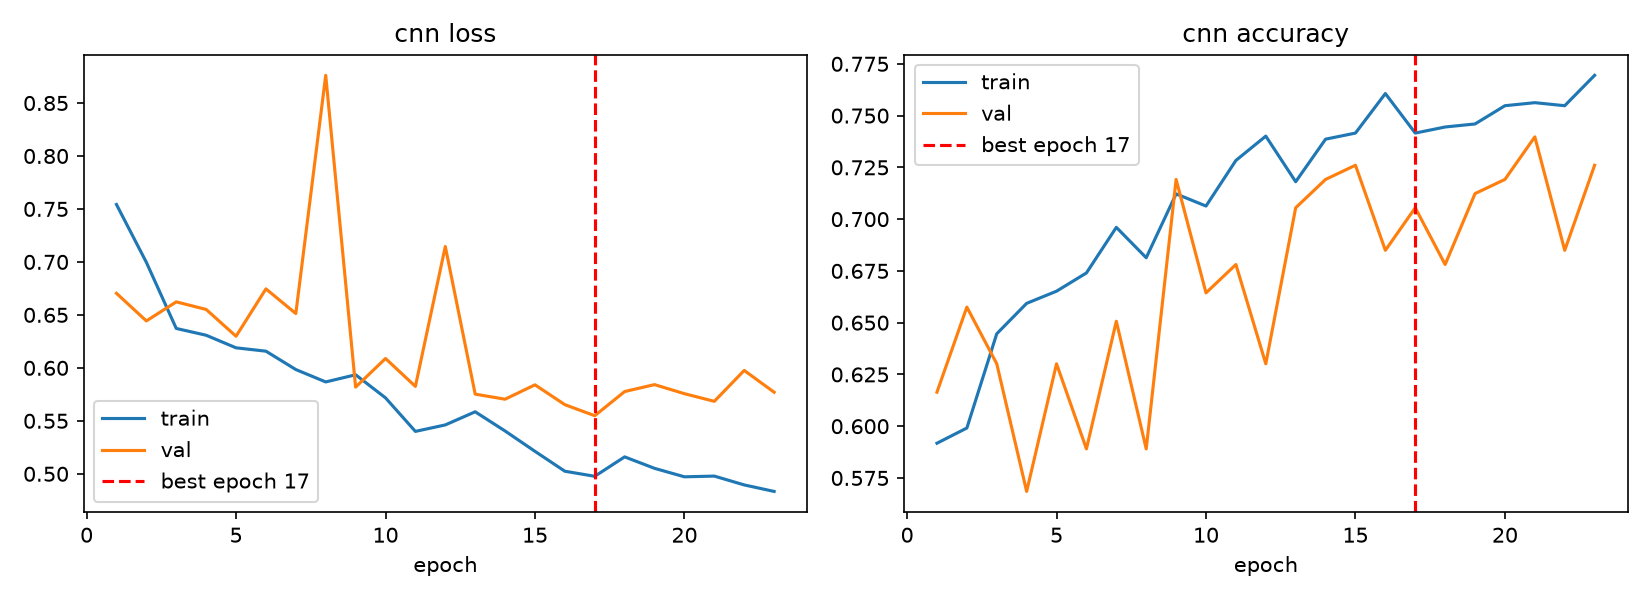
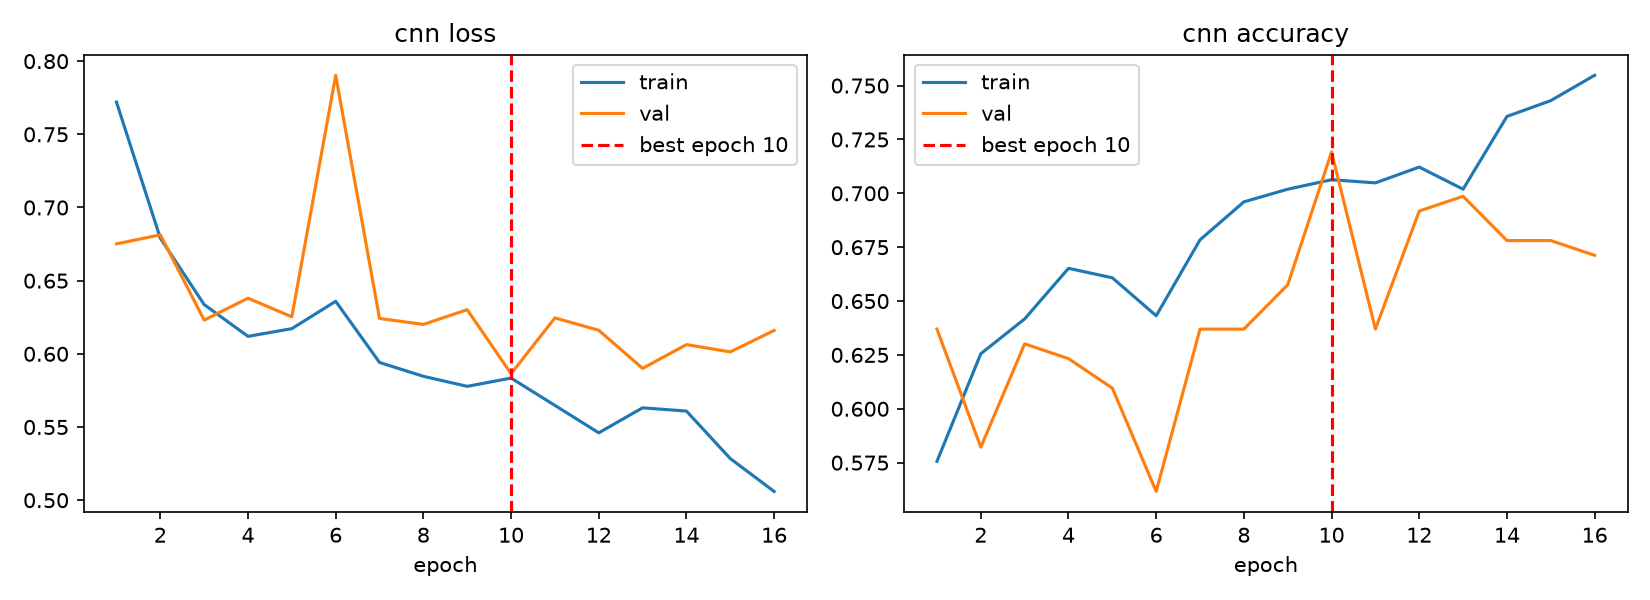
Share preprocessing between training and serving, tidy transfer script

diff --git a/data.py b/data.py
@@ -4,6 +4,8 @@ import matplotlib.pyplot as plt
 import pandas as pd
 import tensorflow as tf
 
+from preprocess import prepare
+
 IMG = 160
 BATCH = 32
 SEED = 42
@@ -16,21 +18,20 @@ augment = tf.keras.Sequential([
 ])
 
 
-def load_image(path, label):
-    img = tf.io.read_file(path)
-    img = tf.io.decode_image(img, channels=3, expand_animations=False)
-    img = tf.image.resize(img, (IMG, IMG))
-    return img, label
+def load_image(path, label, img=IMG):
+    raw = tf.io.read_file(path)
+    return prepare(raw, img), label
 
 
-def make_ds(csv, train=False):
+def make_ds(csv, train=False, img=IMG, augment_on=True):
     df = pd.read_csv(csv)
     ds = tf.data.Dataset.from_tensor_slices((df.path.tolist(), df.label.values.astype("float32")))
-    ds = ds.map(load_image, num_parallel_calls=tf.data.AUTOTUNE)
+    ds = ds.map(lambda p, y: load_image(p, y, img), num_parallel_calls=tf.data.AUTOTUNE)
     ds = ds.cache()
     if train:
         ds = ds.shuffle(len(df), seed=SEED)
-        ds = ds.map(lambda x, y: (augment(x, training=True), y), num_parallel_calls=tf.data.AUTOTUNE)
+        if augment_on:
+            ds = ds.map(lambda x, y: (augment(x, training=True), y), num_parallel_calls=tf.data.AUTOTUNE)
     return ds.batch(BATCH).prefetch(tf.data.AUTOTUNE)
 
 

diff --git a/train_transfer.py b/train_transfer.py
@@ -21,8 +21,8 @@ model = tf.keras.Model(inputs, outputs)
 
 
 def save_trainable(stage):
-    names = [l.name for l in base.layers if l.trainable and l.weights]
-    names += [l.name for l in model.layers if l is not base and l.trainable and l.weights]
+    names = [layer.name for layer in base.layers if layer.trainable and layer.weights]
+    names += [layer.name for layer in model.layers if layer is not base and layer.trainable and layer.weights]
     print(stage, "trainable layers:", len(names))
     print(names)
     with open(f"reports/trainable_{stage}.txt", "w") as f:

diff --git a/preprocess.py b/preprocess.py
@@ -1,0 +1,6 @@
+import tensorflow as tf
+
+
+def prepare(raw_bytes, img):
+    image = tf.io.decode_image(raw_bytes, channels=3, expand_animations=False)
+    return tf.image.resize(image, (img, img))
